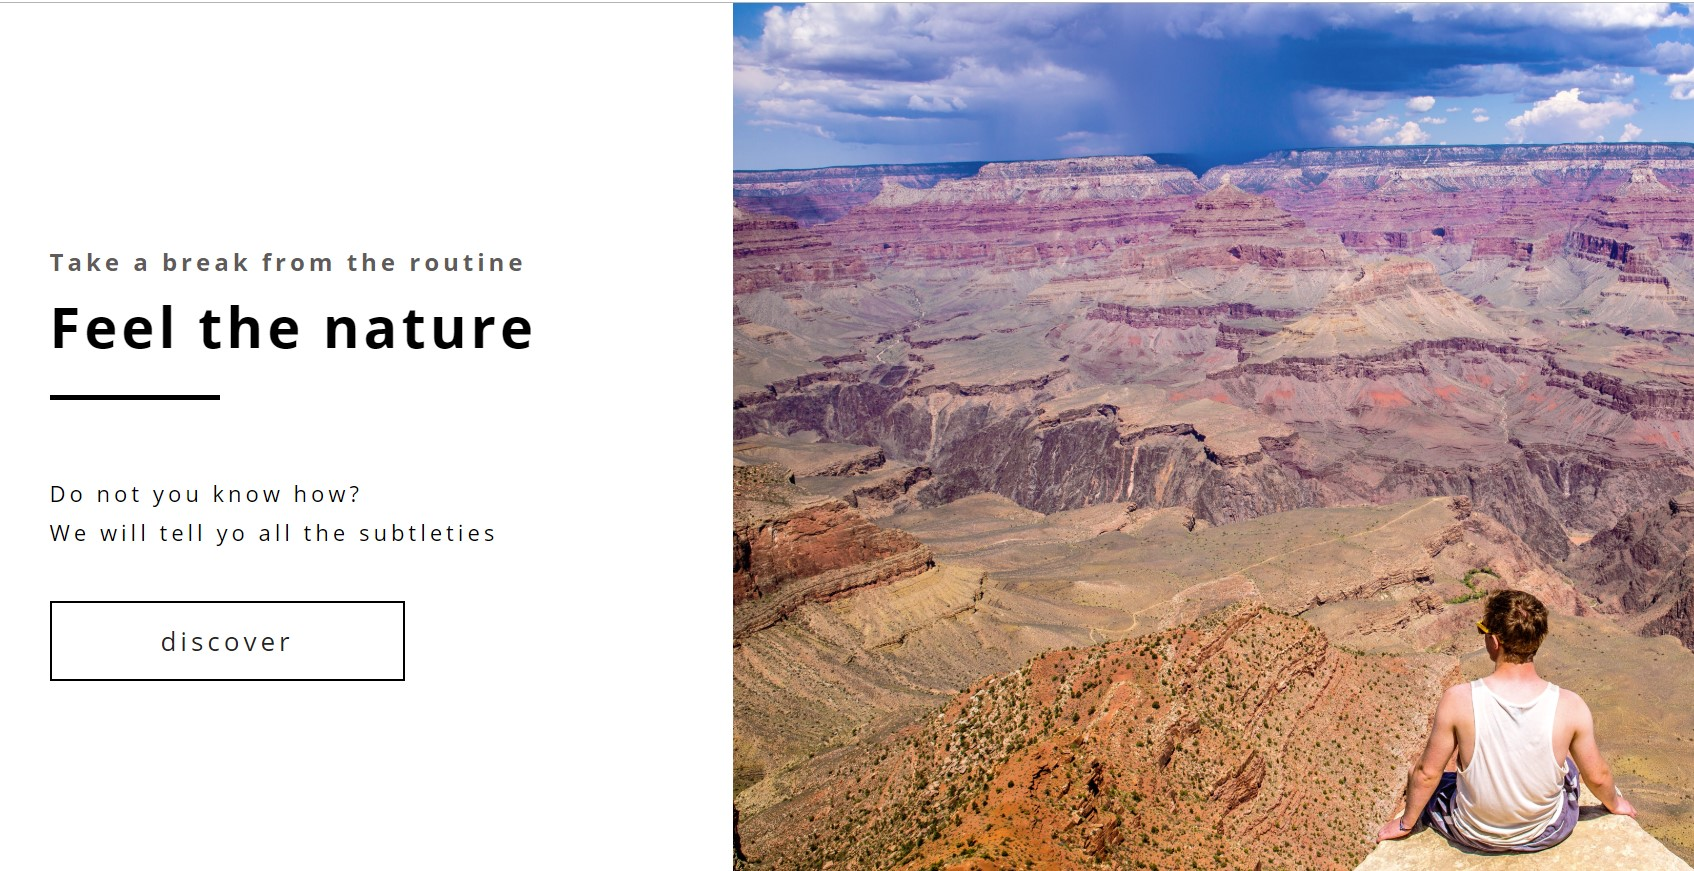
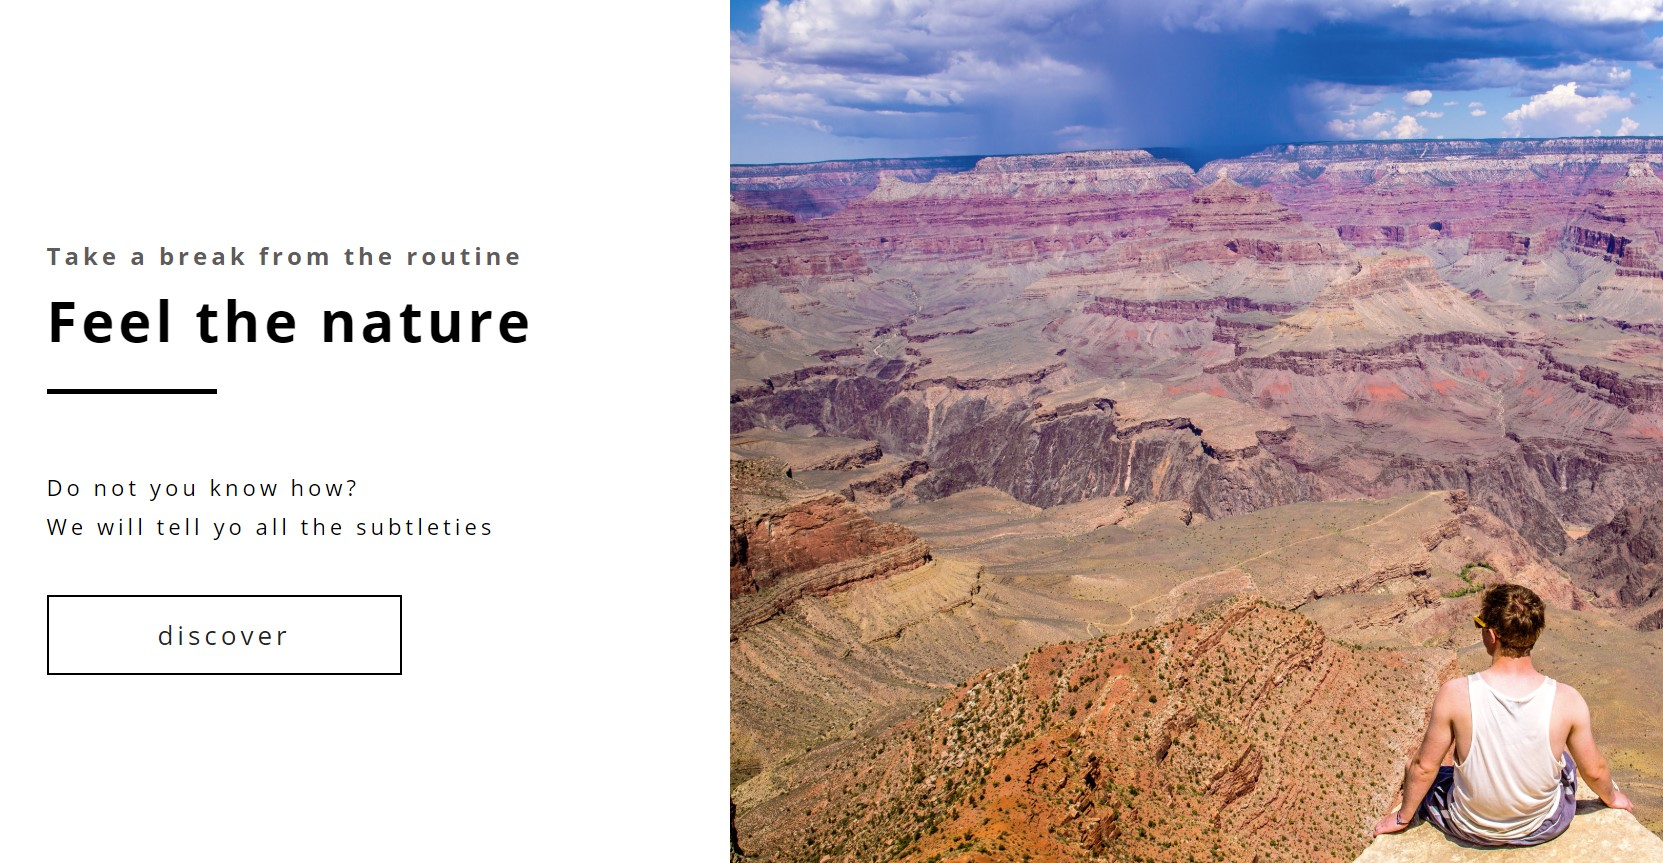
responsive верстка

diff --git a/site-5/readme.md b/site-5/readme.md
@@ -1,4 +1,4 @@
-#### 1. Проект "Blueasy"
+#### 1. Проект "Grand Canyon"
 
 <a href="https://niksvhvets.github.io/site-5/">
   <img src="img/Screenshot.jpg" width="1200" height="508">
